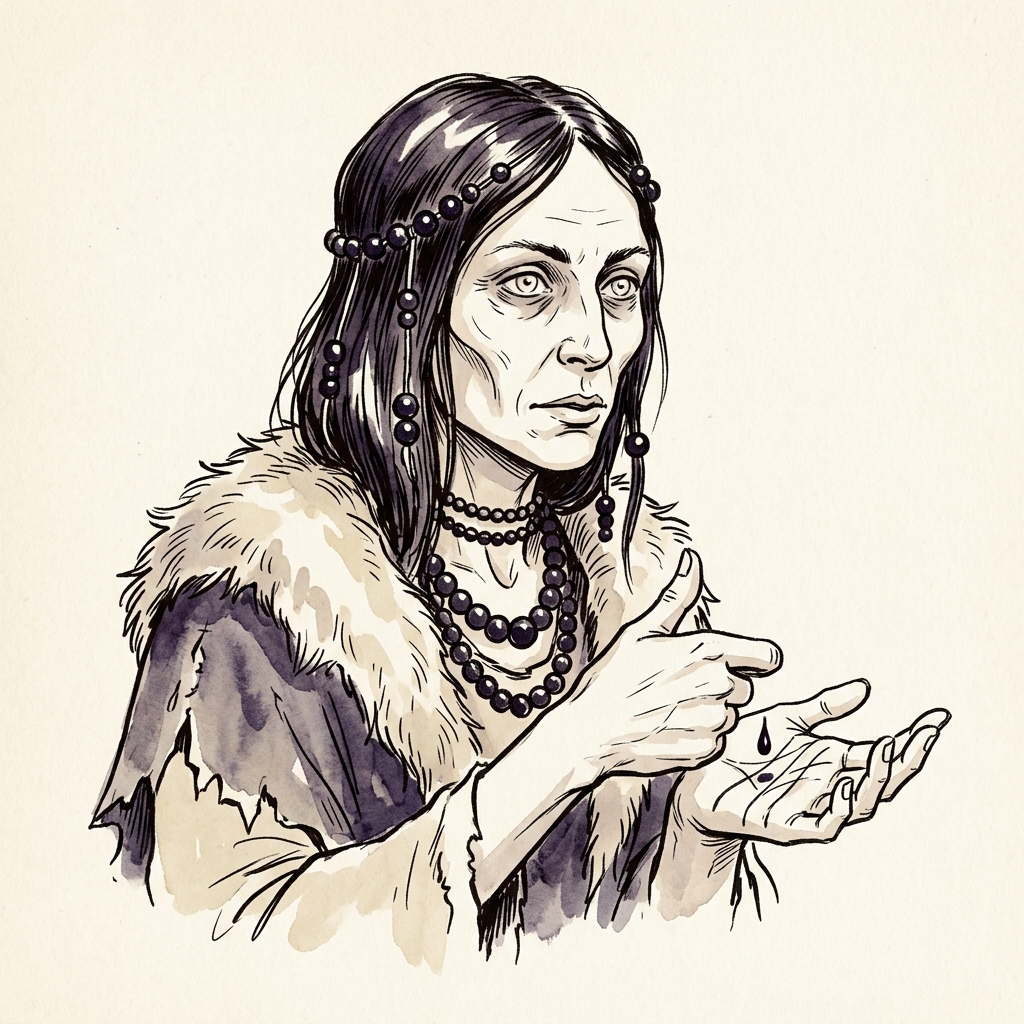
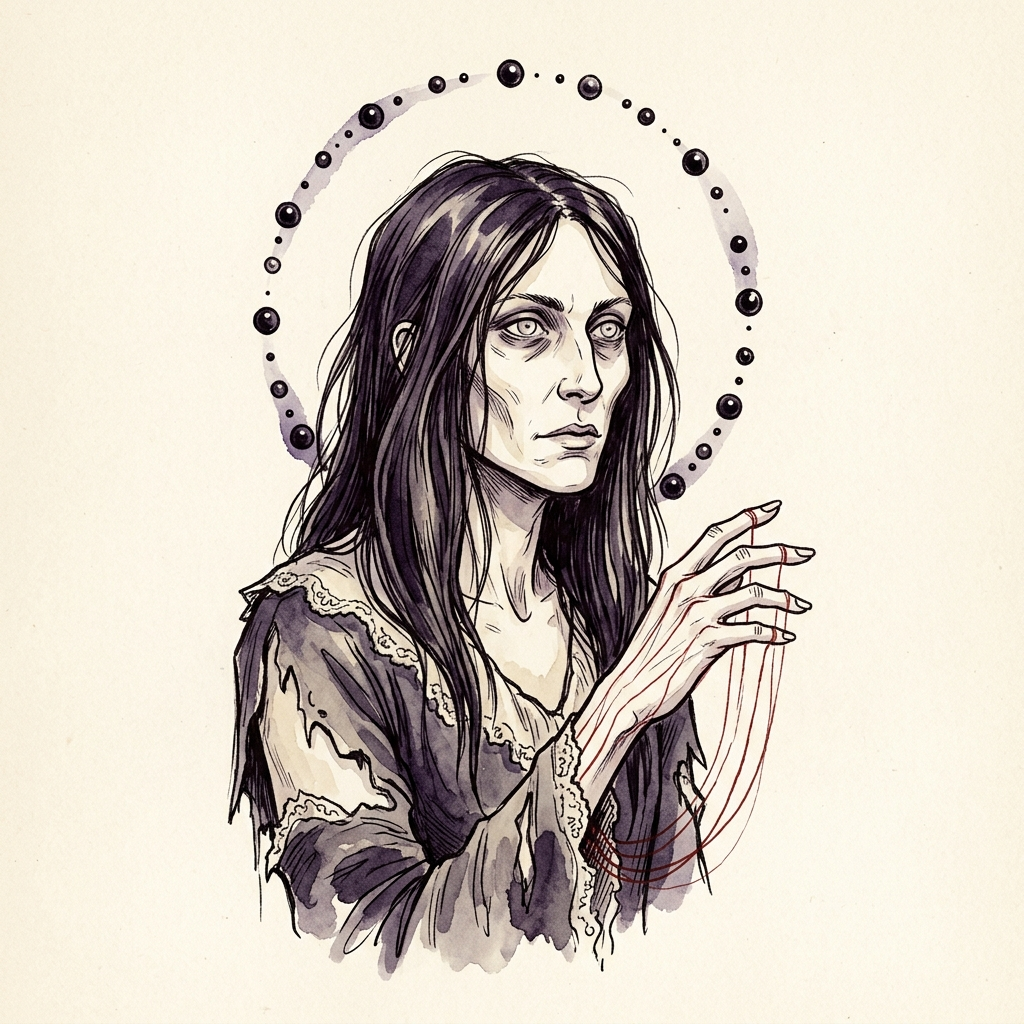
S25 art round continues: Tyrant + Sage printed re-drops verified EXACT ({2}{R}{R}{R} corrected; 'each of' restored) — MANIFEST flags cleared. Portraits: Cleric/Tyrant/Keeper KEPT; Sage + Witch re-descriptored to follow their kept card identities (the signature-card rule — the Lorwyn moth-winged tric

diff --git a/docs/art/subjects/court-sapphire-sage.md b/docs/art/subjects/court-sapphire-sage.md
@@ -1,19 +1,22 @@
 # Court portrait: The Sapphire Sage (Mox Sapphire, Drowned Reach, U)
 
-S25 (ADR-088): mage-portrait law; custom legend. Register: the faerie
-trickster whose escape is his engine — Sage-bounces-Sage; the tide that
-takes one thing from each shore.
+S25 (ADR-088): mage-portrait law; custom legend. RE-DESCRIPTORED at the
+S25 director round: the card-art reroll moved the Sage into the
+Lorwyn-fae register (slender trickster fae, patterned moth wings,
+twilight indigo, whimsy with teeth) and the portrait follows the kept
+card (the twilight watercolor — signature-card rule: recognisably the
+same being). Original descriptor superseded; --force re-render.
 
 ## Visual descriptor (locked)
 
 ```text
-Head-and-shoulders portrait, three-quarter view: a small sharp-featured
-faerie man with swept-back silver hair and a thin sapphire circlet;
-iridescent dragonfly wings rising behind the shoulders and framing the
-portrait; high-collared scholar's coat; one long finger raised with a
-thin helix of seawater spiraling above it; one eyebrow arched in sly,
-patient amusement. Expression clever and elsewhere already, readable at
-96 pixels. Exactly two watercolor washes: deep sapphire blue and
-parchment cream; all else ink line and unpainted paper. No background
-scenery.
+Head-and-shoulders portrait, three-quarter view: a slender, androgynous
+trickster faerie with tousled black hair, sharp delicate features,
+pointed ears, and large luminous dark eyes; great patterned moth-like
+wings rising behind the shoulders and framing the portrait, their panes
+edged in fine ink; a collar of woven leaves; one thin finger raised with
+a small ribbon of water curling above it in a helix. Expression sly,
+distant amusement — pretty and faintly predatory, readable at 96 pixels.
+Exactly two watercolor washes: deep twilight indigo and parchment cream;
+all else ink line and unpainted paper. No background scenery.
 ```

diff --git a/docs/art/subjects/court-jet-witch.md b/docs/art/subjects/court-jet-witch.md
@@ -1,19 +1,22 @@
 # Court portrait: The Jet Witch (Mox Jet, Barrowlands, B)
 
-S25 (ADR-088): mage-portrait law; custom legend. Register: greed without
-the mana — she reads fortunes in her own blood; the knife that cuts the
-wielder.
+S25 (ADR-088): mage-portrait law; custom legend. RE-DESCRIPTORED at the
+S25 director round: the card-art reroll settled the Witch in the dark
+surrealist register (the shadow-book — jet beads orbiting like a small
+night sky, veins that read as script) and the portrait follows the kept
+card (signature-card rule). Original descriptor superseded; --force
+re-render.
 
 ## Visual descriptor (locked)
 
 ```text
-Head-and-shoulders portrait, three-quarter view: a gaunt human shaman
-woman with hollow cheeks and pale far-seeing eyes; dark hair strung with
-polished jet beads, more jet in ropes at her throat; a ragged fur-edged
-mantle; one thumb pricked and held over her other upturned palm, a
-single dark drop falling, thin lines across the palm drawn like a script
-being read. Expression avid and unafraid of the price, readable at 96
-pixels. Exactly two watercolor washes: bruised violet-black and
-parchment cream; all else ink line and unpainted paper. No background
-scenery.
+Head-and-shoulders portrait, three-quarter view: a gaunt witch with long
+dark hair and hollow cheeks, pale far-seeing eyes; a halo of small
+polished jet beads floating in a slow orbit around her head like a tiny
+night sky; a ragged dark gown edged in tattered lace; one hand raised
+before her, thin thread-like red lines running from her fingertips down
+into her sleeve like lines of writing being drawn out of her. Expression
+distant and avid, reading something not present, readable at 96 pixels.
+Exactly two watercolor washes: bruised violet-black and parchment cream;
+all else ink line and unpainted paper. No background scenery.
 ```
